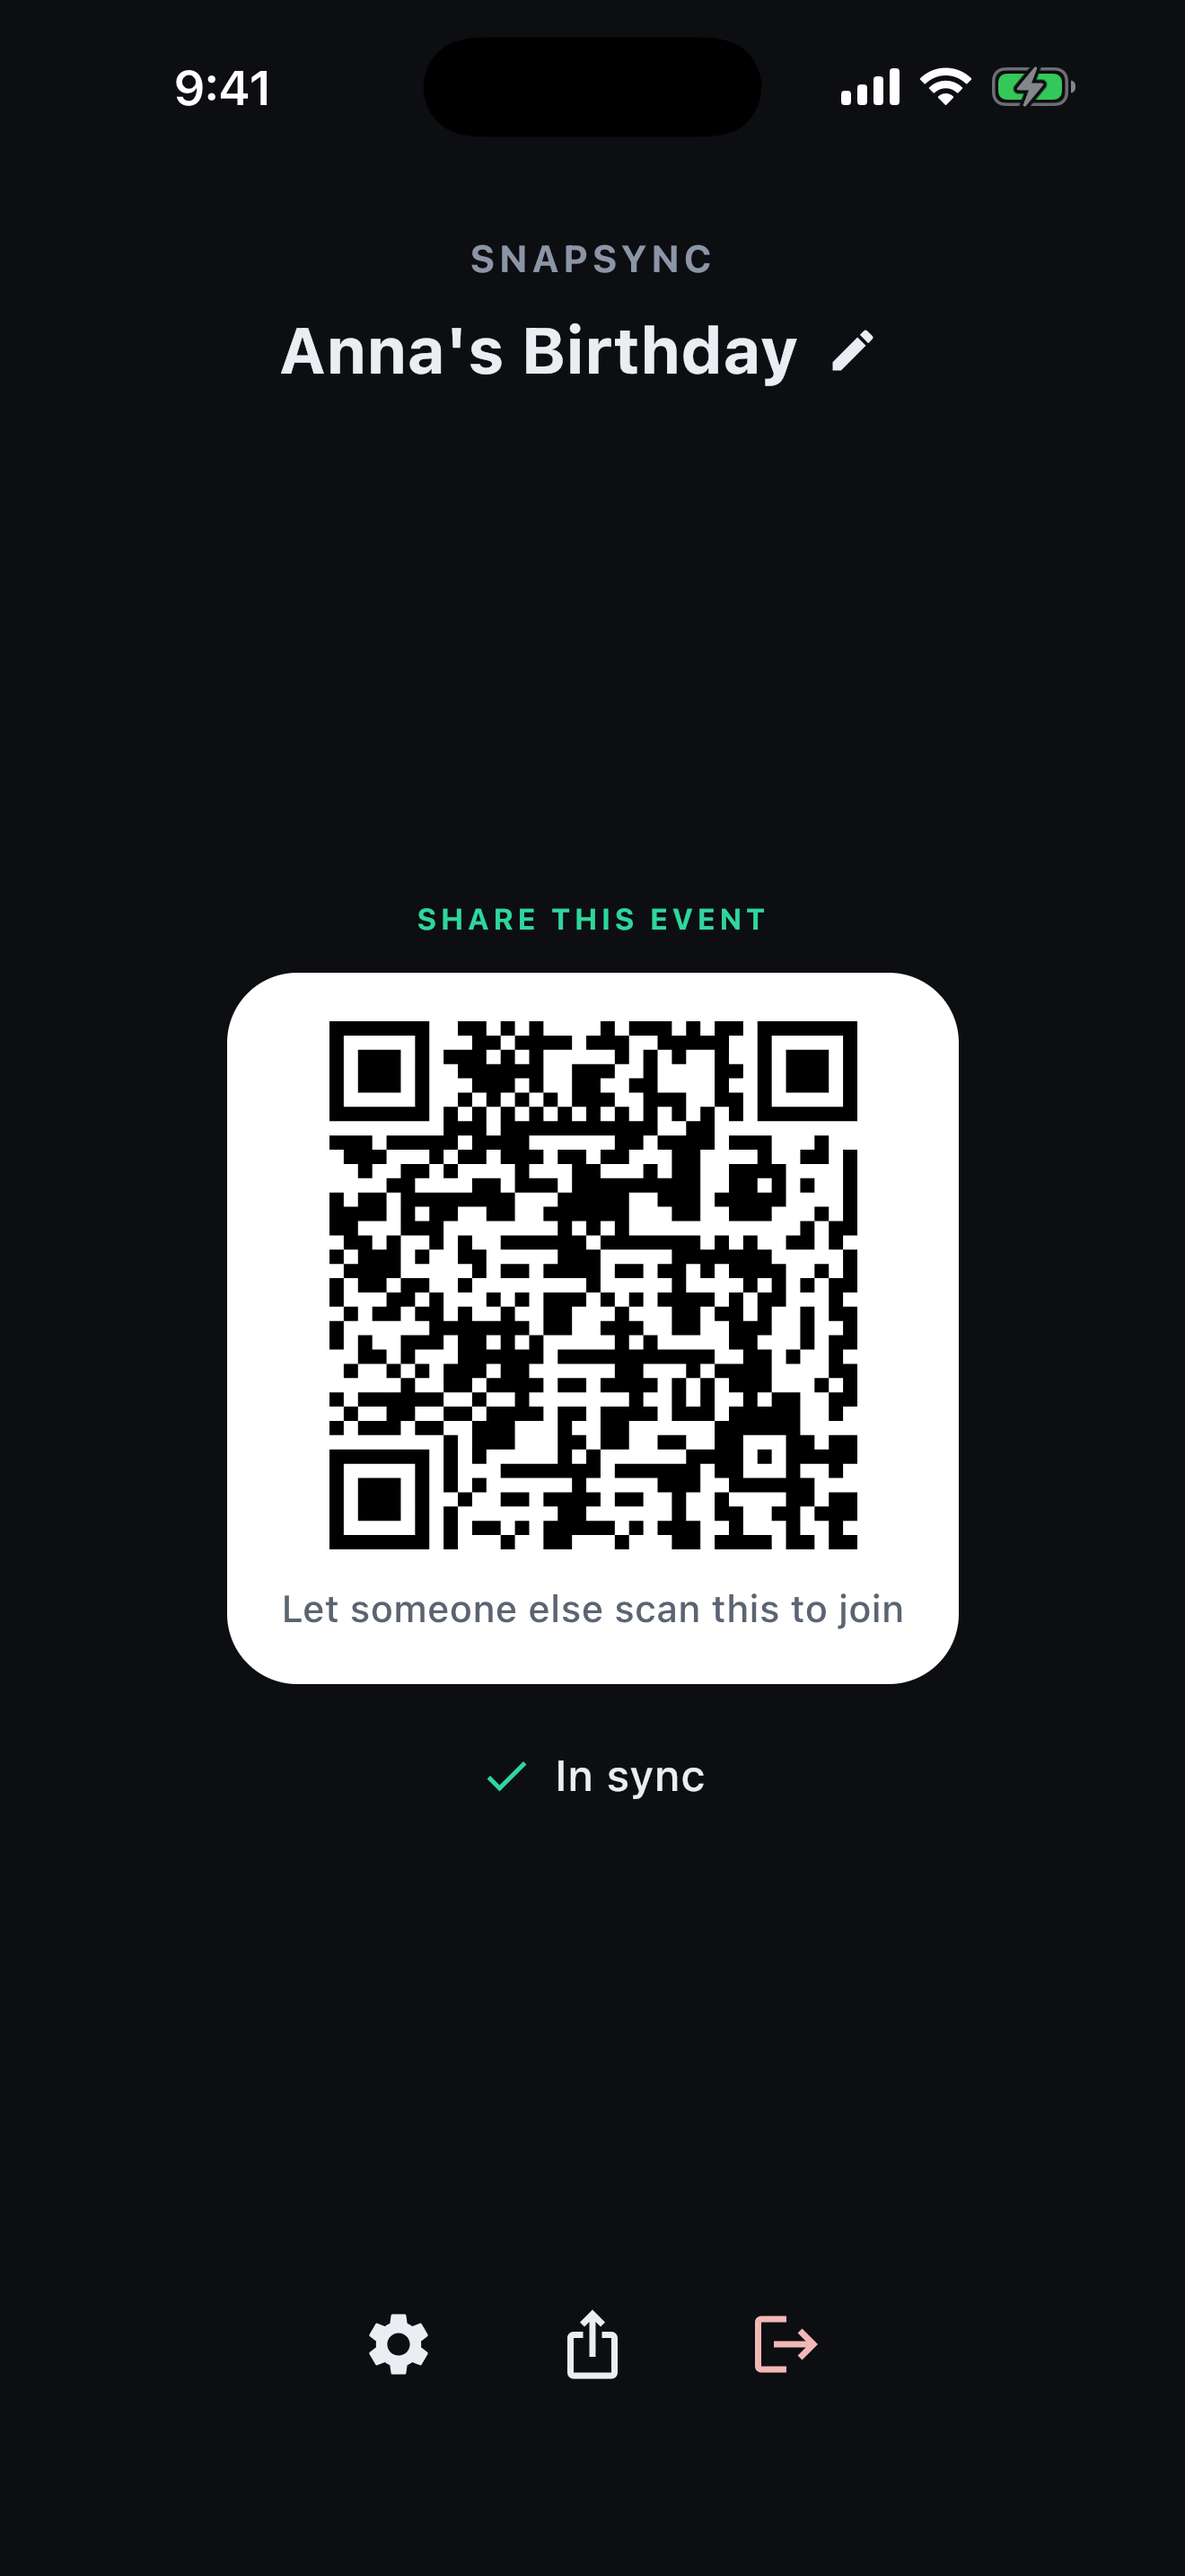
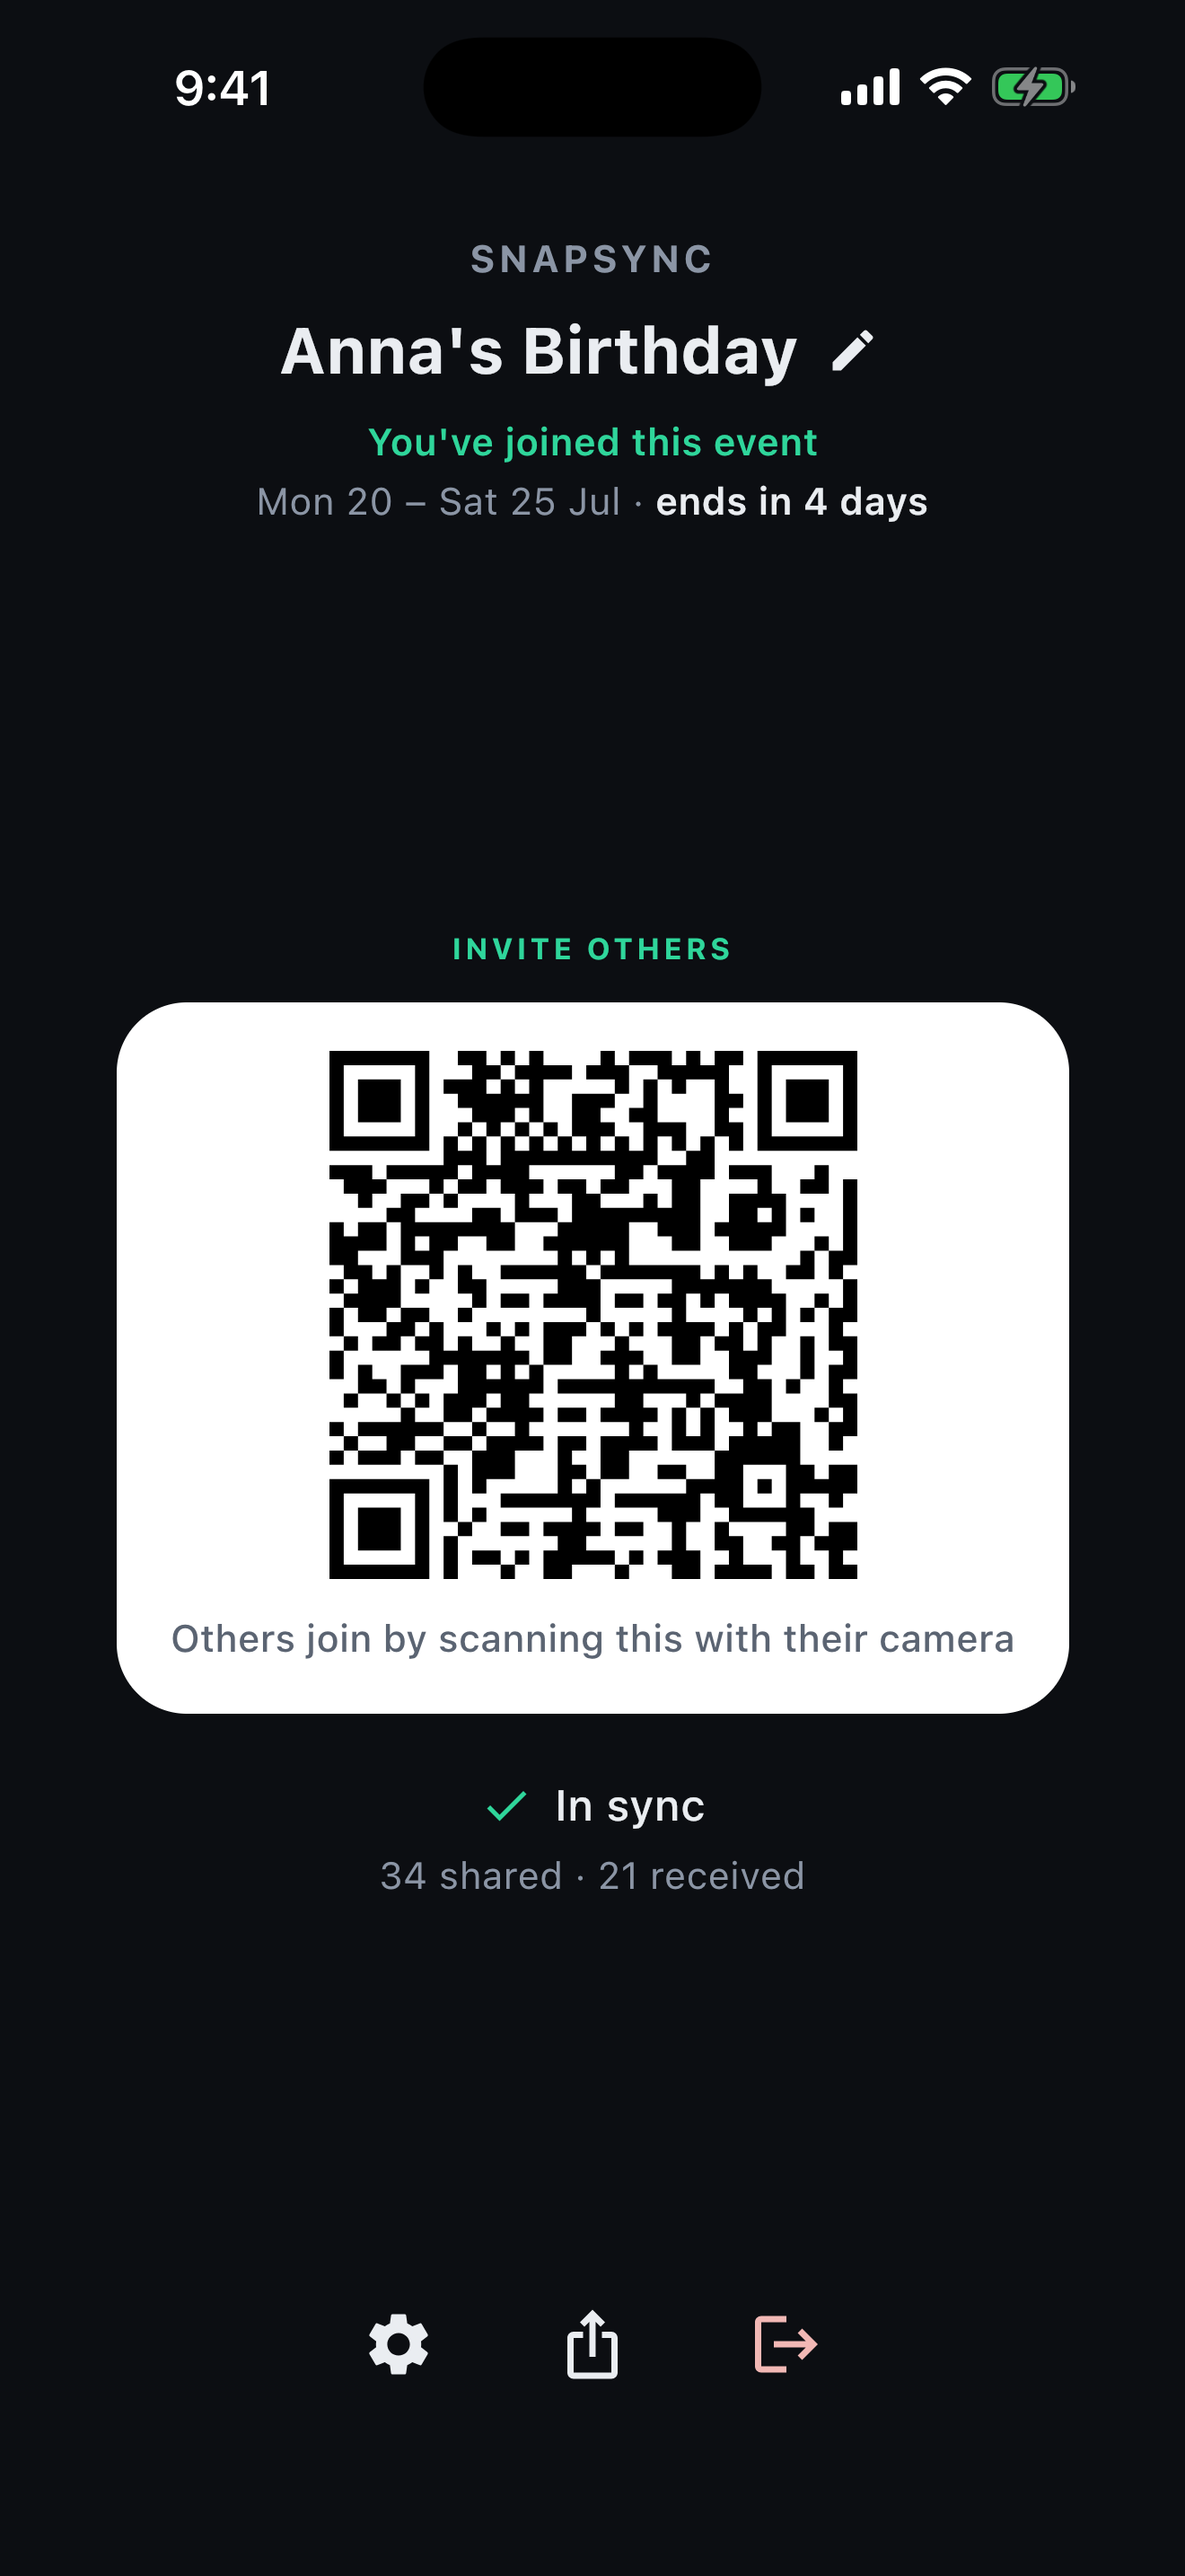
internal(screenshots): in_sync with the redesigned joined screen

diff --git a/openspec/changes/redesign-status-screen/tasks.md b/openspec/changes/redesign-status-screen/tasks.md
@@ -24,7 +24,7 @@
 
 - [x] 4.1 `:test:integration`: assert the joined `UiState`'s `timing` and `counts` in the existing status journeys (counts track shared / received; hidden without access and before the start)
 - [x] 4.2 Review every joined state in the desktop world harness through its levers (the `ui-harness` skill), light and dark
-- [ ] 4.3 Dispatch `screenshots.yml` on the branch, eyeball the `in_sync` raws (light/dark), commit them; `create` and `joining` should come back identical
+- [x] 4.3 Dispatch `screenshots.yml` on the branch, eyeball the `in_sync` raws (light/dark), commit them; `create` and `joining` should come back identical
 
 ## 5. Verify
 
